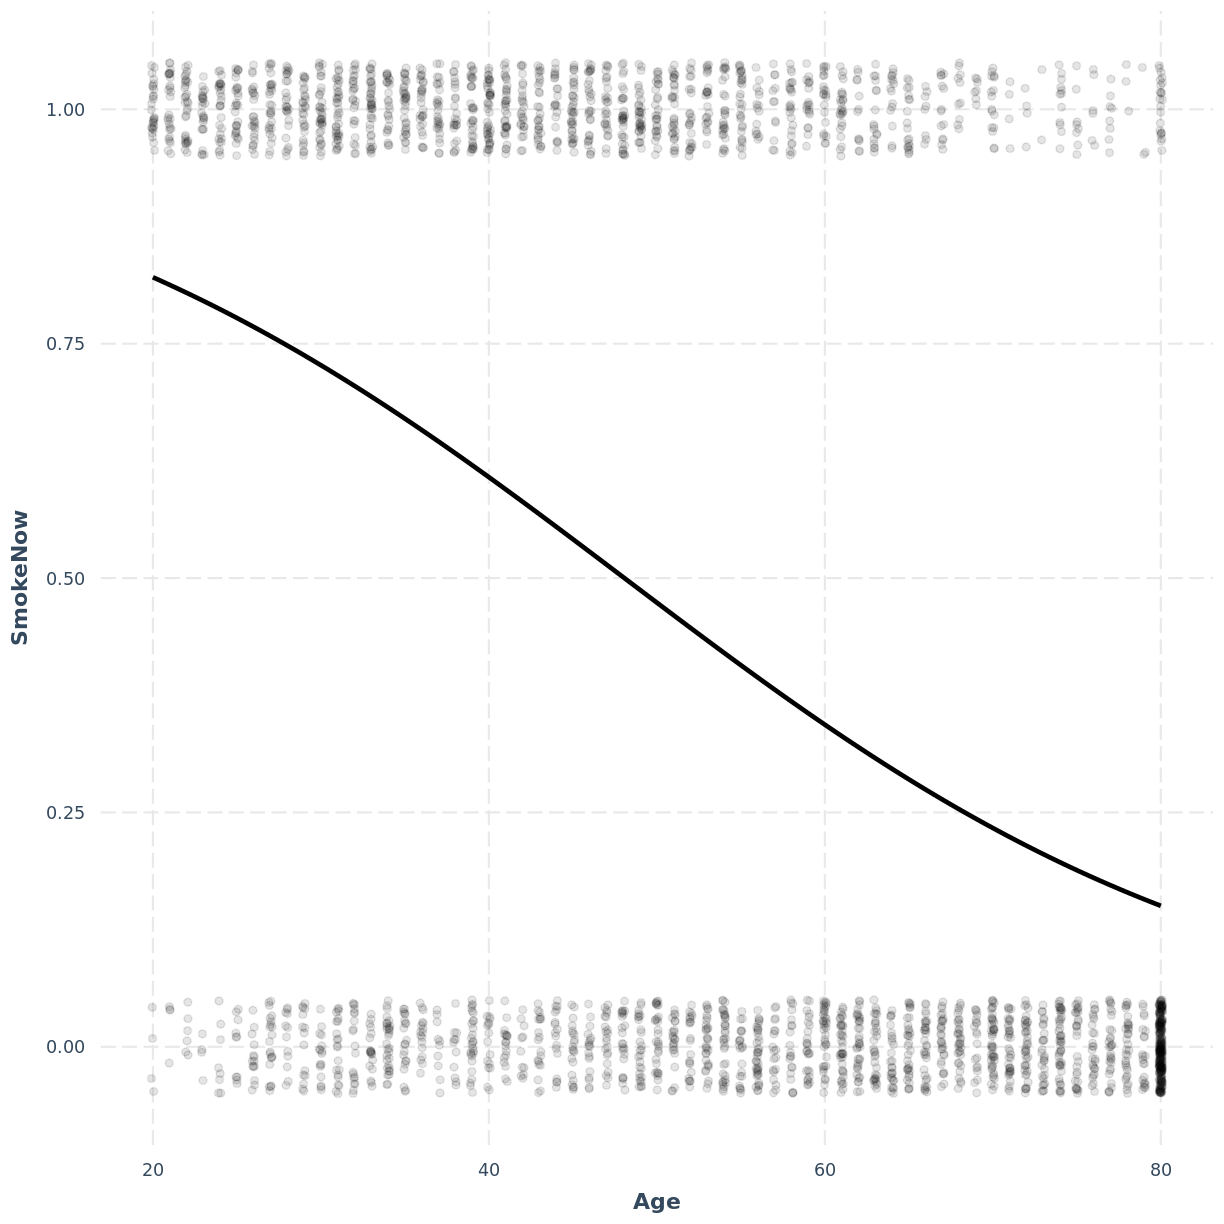
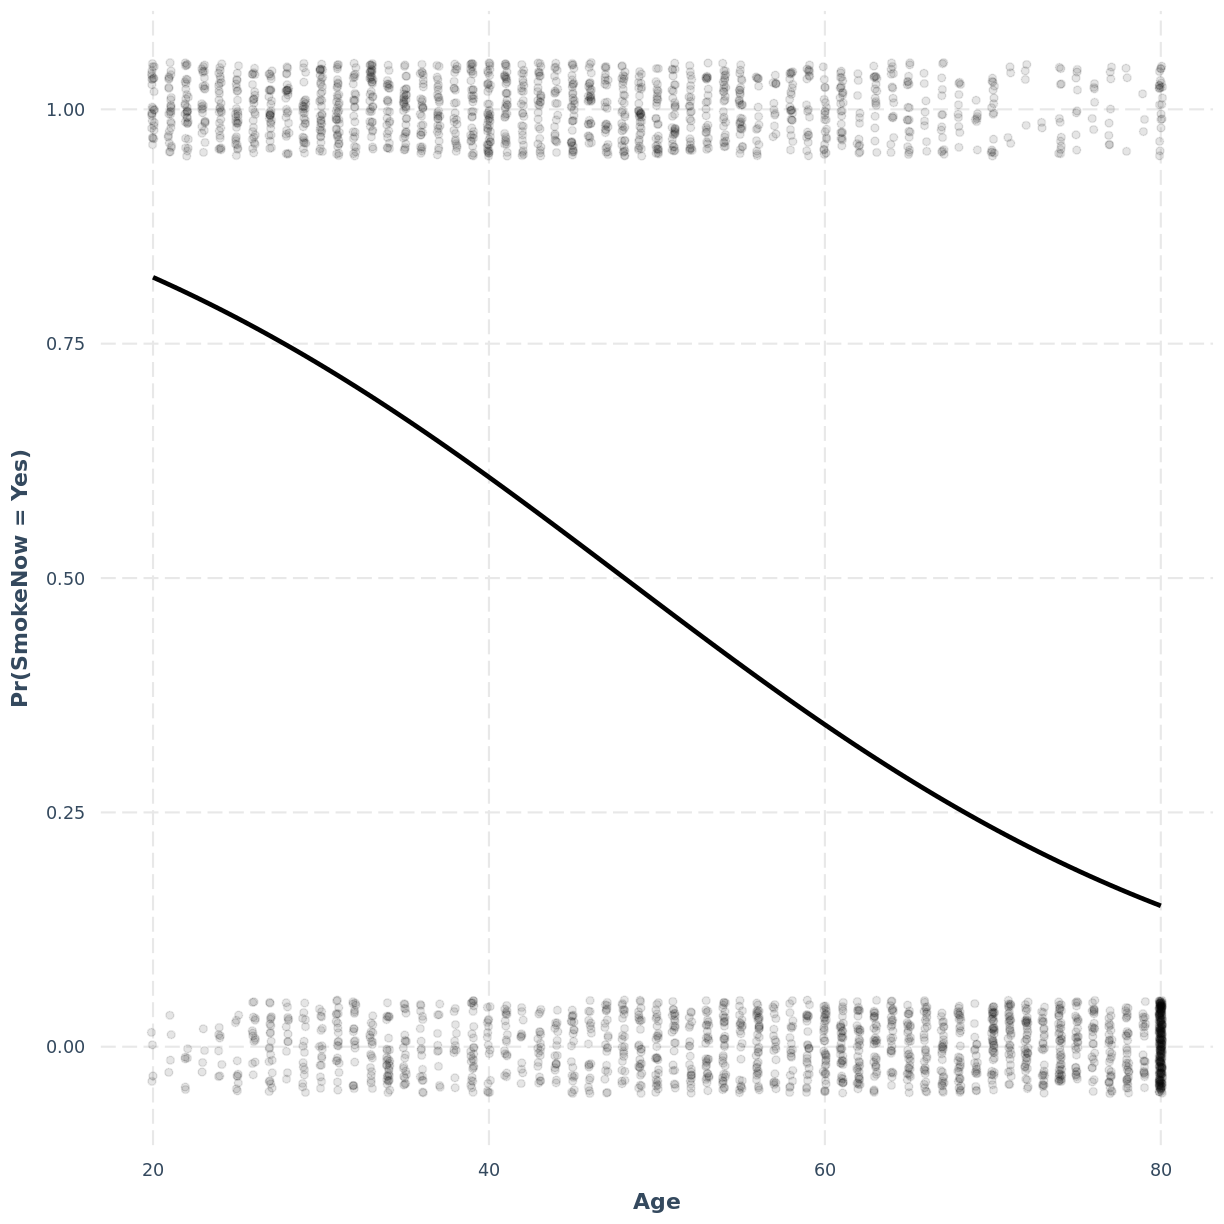
small fixes

Changed region(s): [[0.1242, 0.8072, 0.9624, 0.9003], [0.1242, 0.031, 0.9624, 0.1242], [0.0, 0.3725, 0.031, 0.5899]]

diff --git a/_episodes/03-fittingLogistic.md b/_episodes/03-fittingLogistic.md
@@ -17,11 +17,9 @@ execises: 10
 
 
 
-In this episode we will learn to fit a logistic regression model when we have one binary response variable and one continuous explanatory variable. Before we fit the model, we can explore the relationship between our variables graphically. We are checking whether, on average, observations split along the binary variable appear to differ in the explanatory variable.
+In this episode we will learn to fit a logistic regression model when we have one binary response variable and one continuous explanatory variable. Before we fit the model, we can explore the relationship between our variables graphically. We are getting a sense of whether, on average, observations split along the binary variable appear to differ in the explanatory variable.
 
 Let us take response variable `SmokeNow` and the continuous explanatory variable `Age` as an example. For participants that have smoked at least 100 cigarettes in their life, `SmokeNow` denotes whether they still smoke. The code below drops NAs in the response variable. The plotting is then initiated using `ggplot()`. Inside `aes()`, we select the response variable with `y = SmokeNow` and the continuous explanatory variable with `x = Age`. Finally, violin plots are called using `geom_violin()`.
-
-The plot suggests that on average, participants of younger age are still smoking and participants of older age have given up smoking. We can now proceed with fitting the logistic regression model. 
 
 
 ~~~
@@ -33,6 +31,8 @@ dat %>%
 {: .language-r}
 
 <img src="../fig/rmd-03-explore SmokeNow_Age-1.png" title="plot of chunk explore SmokeNow_Age" alt="plot of chunk explore SmokeNow_Age" width="612" style="display: block; margin: auto;" />
+
+The plot suggests that on average, participants of younger age are still smoking and participants of older age have given up smoking. After the exercise, we can proceed with fitting the logistic regression model. 
 
 > ## Exercise  
 > You have been asked to model the relationship between 
@@ -158,7 +158,7 @@ Age                     0.947    0.943    0.952   -21.771   0.000
 {: .output}
 
 The model therefore predicts that the odds of success will be multiplied by
-$0.947$ for every one-unit increase in $x_1$
+$0.947$ for every one-unit increase in $x_1$.
 
 > ## Exercise  
 > 1. Using the `glm()` command, fit a logistic regression model
@@ -173,7 +173,7 @@ $0.947$ for every one-unit increase in $x_1$
 > to differ, on average, for a one-unit difference in `FEV1`?  
 > C) Given these values and the names of the response and explanatory
 > variables, how can the general equation $\text{logit}(E(y)) = \beta_0 + \beta_1 \times x_1$ be adapted to represent the model?  
-> D) By how much is $\frac{\text{Pr}(\text{PhysActive})}{\text{Pr}(\text{PhysActive})} = \text{No}$ expected to be multiplied for a one-unit increase in `FEV1?`
+> D) By how much is $\frac{\text{Pr}(\text{PhysActive} = \text{Yes})}{\text{Pr}(\text{PhysActive} = \text{No})}$ expected to be multiplied for a one-unit increase in `FEV1?`
 >
 > > ## Solution
 > > 
@@ -270,11 +270,13 @@ with `pred = Age`. To aid interpretation of the model, we include the original d
 with `plot.points = TRUE`. Recall that our data is binary, so the data points are exclusively
 $0$s and $1$s. To avoid overlapping points becoming hard to interpret, we add jitter using
 `jitter = c(0.1, 0.05)` and opacity using `point.alpha = 0.1`. 
+We also change the y-axis label to "Pr(SmokeNow = Yes)" using `ylab()`. 
 
 
 ~~~
 effect_plot(SmokeNow_Age, pred = Age, plot.points = TRUE,
-            jitter = c(0.1, 0.05), point.alpha = 0.1)
+            jitter = c(0.1, 0.05), point.alpha = 0.1) +
+  ylab("Pr(SmokeNow = Yes)")
 ~~~
 {: .language-r}
 
